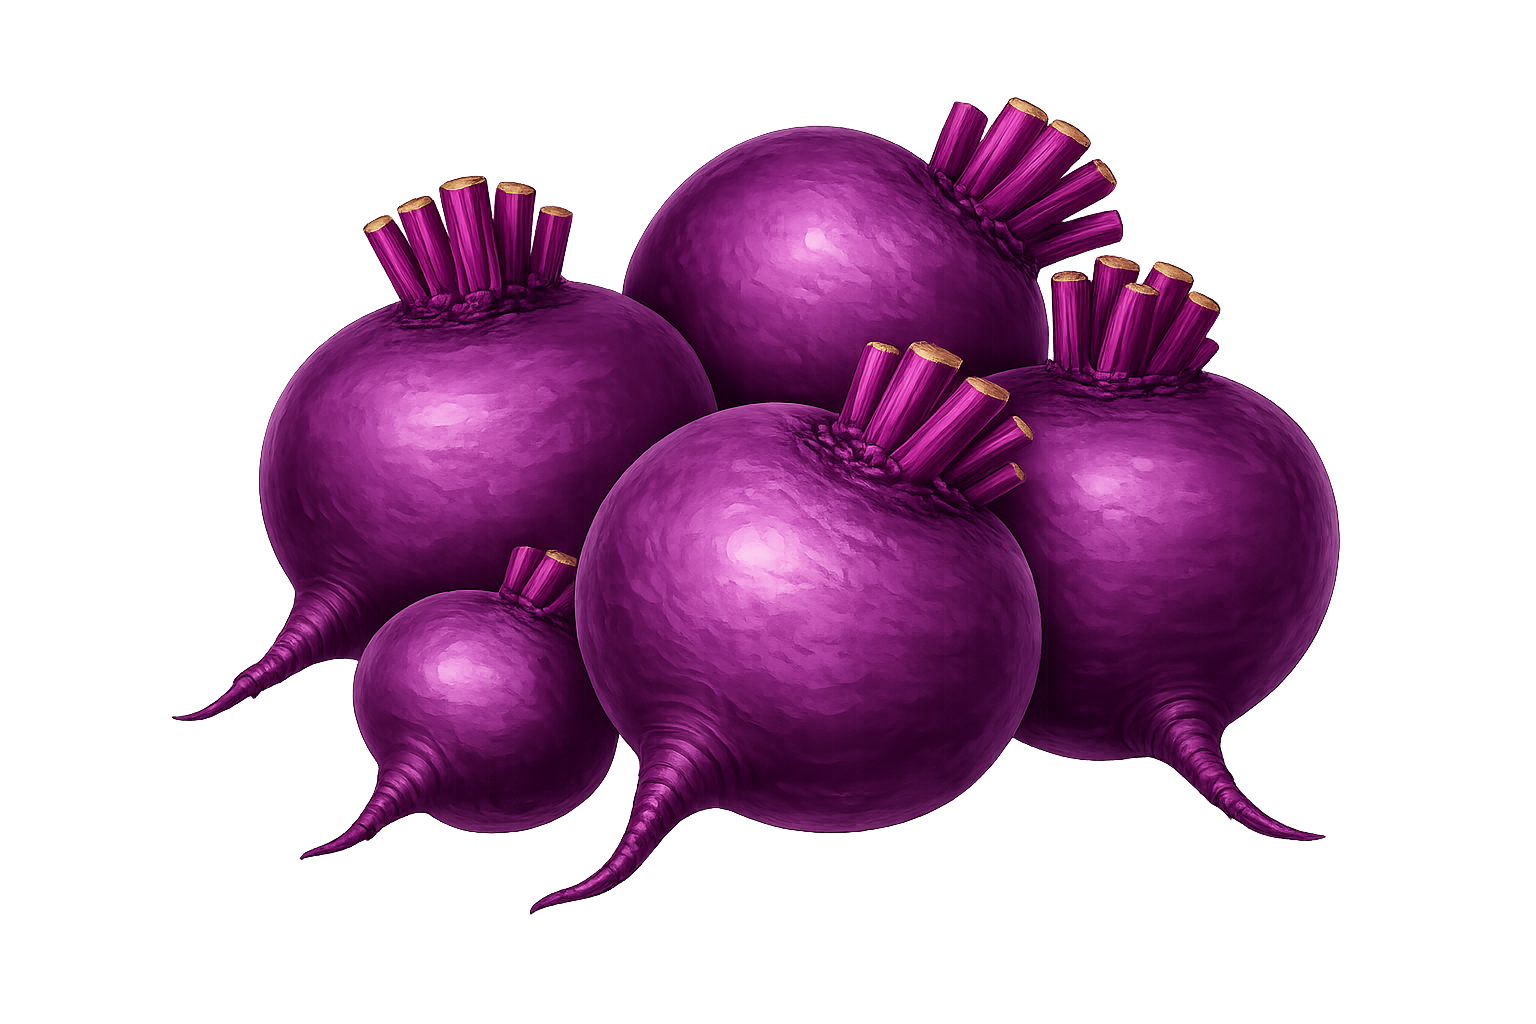
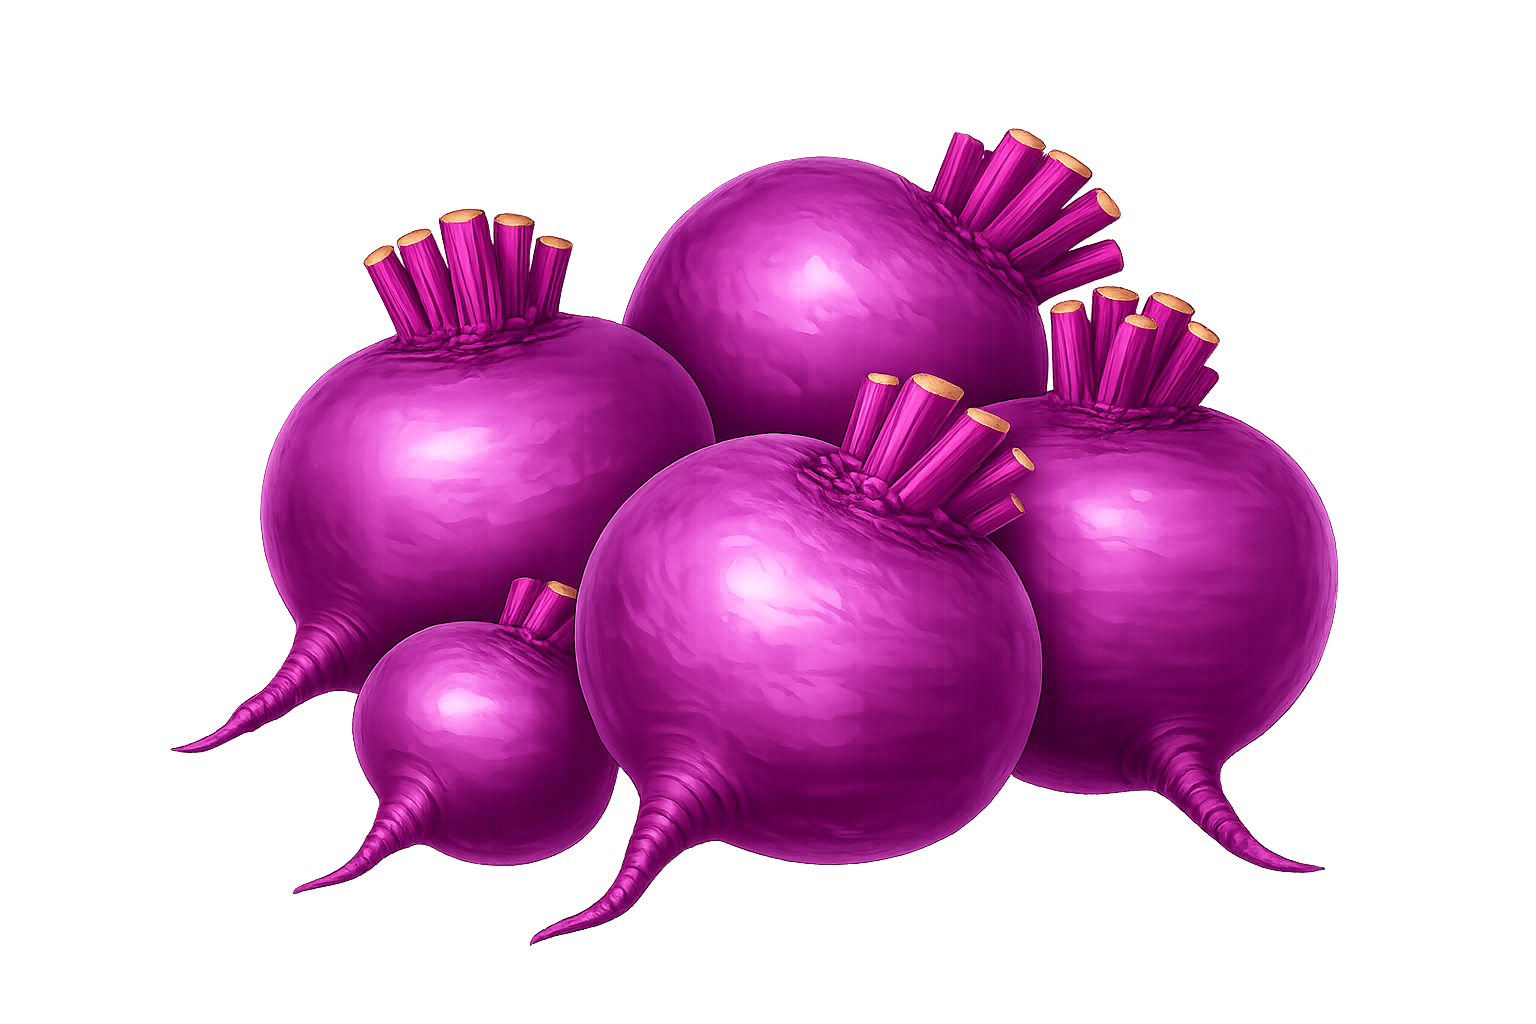
Se agrega la funcionalidad de cortar los ingredientes

diff --git a/Proyecto2_Crazy_Snack_Rush.py b/Proyecto2_Crazy_Snack_Rush.py
@@ -916,7 +916,7 @@ class ingredientes_restaurante_americano:
 
 #######################################################################################
 
-#Clase que controlará los eventos de cocinar, cortar 
+#Clase que guadar las posiciones de la cocina en los restaurates  
 class Cocina:
 
         def __init__(self, fila, columna):
@@ -925,6 +925,17 @@ class Cocina:
                 self.fila = fila
 
                 # Guarda la columna donde se encuentra la cocina
+                self.columna = columna
+#######################################################################################
+# Clase que guarda las posiciones de las tablas de picar en los restaurantes 
+class tabla_Picar:
+
+        def __init__(self, fila, columna):
+
+                # Se guarda la fila donde está la tabla de picar 
+                self.fila = fila
+
+                # Se guarda la columna donde está la tabla de picar
                 self.columna = columna
 #######################################################################################
 
@@ -975,6 +986,10 @@ class Pantalla_Restaurante_Americano:
                 # Detecta cuando el jugador presiona la tecla "s" para cocinar
                 self.ventana_restaurante.bind("s", self.usar_cocina_americano)
 
+                # Detecta cuando el jugador presiona la tecla "D" para picar ingredientes
+                self.ventana_restaurante.bind("d", self.usar_tabla_picar_americano)
+
+
 
 #######
                 # Matriz que permite el movimiento en el  restaurante americano 
@@ -1013,10 +1028,10 @@ class Pantalla_Restaurante_Americano:
                         [0,0,0,0,1,1,1,1,1,1,1,1,1,1,1,1,1,1,1,0],
 
                         # Fila 10
-                        [0,0,0,0,1,1,1,1,1,1,1,1,1,0,0,1,1,0,0,0],
+                        [0,0,0,0,1,1,1,1,1,1,1,1,1,0,0,1,1,1,0,0],
 
                         # Fila 11
-                        [0,1,1,1,1,1,1,1,1,1,1,1,0,0,0,1,1,0,0,0],
+                        [0,1,1,1,1,1,1,1,1,1,1,1,0,0,0,1,0,0,0,0],
 
                         # Fila 12
                         [0,1,1,1,1,1,1,1,1,1,1,1,1,1,0,0,0,0,0,0],
@@ -1071,7 +1086,7 @@ class Pantalla_Restaurante_Americano:
                 # Permite detectar cuando el jugador hace clic sobre la imagen
                 self.canvas.tag_bind(
 
-                        self.boton_cambiar_chef,  # Imagen que funcionará como botón
+                        self.boton_cambiar_chef,  # Nombre de la imagen que funcionará como botón
 
                         "<Button-1>",             # Detecta clic izquierdo del mouse
 
@@ -1103,6 +1118,19 @@ class Pantalla_Restaurante_Americano:
                                 # Cocina inferior derecha
                                 Cocina(9, 14)
 
+                        ]
+                
+#######
+                # Lista que almacena las posiciones donde el chef puede cortar ingredientes
+                        # Posicione válidas para cortar ingredientes
+                self.tablas_picar = [
+
+                        # Tabla de picar en la parte superior de la pantalla 
+                        tabla_Picar(2, 5),
+
+                        #Tabla de picar en la parte inferior de la pantalla 
+                        tabla_Picar(10, 16),
+                        tabla_Picar(10, 17),
                         ]
 
 #######
@@ -1379,8 +1407,137 @@ class Pantalla_Restaurante_Americano:
 
 ##########################
 
+        # Función que verifica si el chef está en una tabla de picar
+        def esta_en_tabla_picar(self):
+
+                # Se obtiene la fila actual del chef
+                fila = self.chef.chef_ejey // 50
+
+                # Se obtiene la columna actual del chef
+                columna = self.chef.chef_ejex // 50
+
+                # Muestra la posición actual del chef
+                print("Fila:", fila, "Columna:", columna)
+
+                # Recorre todas las posiciones de las tablas de picar
+                for tabla in self.tablas_picar:
+
+                        # Se verifica si la posición del chef coincide con una tabla de picar
+                        if fila == tabla.fila and columna == tabla.columna:
+
+                                return True
+
+                # Si no coincide con ninguna tabla
+                return False
+
+##########################
+
+        # Función que se ejecuta cuando el jugador presiona D
+        def usar_tabla_picar_americano(self, event):
+
+                # Verifica si el chef está en una tabla de picar
+                if self.esta_en_tabla_picar():
+
+                        # Llama a la función que pica el ingrediente
+                        self.picar_ingrediente()
+
+                else:
+
+                        # Si no está en una tabla, no puede picar
+                        print("No está en una tabla de picar")
+
+########################## 
+
+        # Función que permite picar el ingrediente que tiene el chef
+        def picar_ingrediente(self):
+
+                # Verifica si el chef tiene un ingrediente en la mano
+                if self.ingrediente_en_mano == None:
+
+                        print("No tienes ingrediente para picar")
+
+                        return 
+
+                
+                # Si el ingrediente ya está picado, no se vuelve a picar
+                if self.ingrediente_en_mano.estado_ingrediente == "picado":
+
+                                print("El ingrediente ya está picado")
+
+                                return
+# #####                        
+                # Se verifica si el ingrediente puede picarse
+                if self.ingrediente_en_mano.nombre_ingrediente not in [
+
+                                                                                "Lechuga",
+                                                                                "Tomate",
+                                                                                "Cebolla",
+                                                                                "Zanahoria",
+                                                                                "Remolacha",
+                                                                                "Calabaza",
+                                                                                "Papa",
+                                                                                "Queso",
+                                                                                "Pan"
+
+                                                                                ]:
+
+                        print("Este ingrediente no se puede picar")
+
+                        return
+
+                # Se cambia el estado del ingrediente a picado
+                self.ingrediente_en_mano.estado_ingrediente = "picado"
+
+#######
+                # Se Cambia la imagen según el ingrediente picado
+
+                if self.ingrediente_en_mano.nombre_ingrediente == "Lechuga":
+
+                        self.ingrediente_en_mano.imagen_ingrediente_cocinado("lechuga_picada.png")
+
+                elif self.ingrediente_en_mano.nombre_ingrediente == "Papa":
+
+                        self.ingrediente_en_mano.imagen_ingrediente_cocinado("papa_picada.png")
+
+                elif self.ingrediente_en_mano.nombre_ingrediente == "Zanahoria":
+
+                        self.ingrediente_en_mano.imagen_ingrediente_cocinado("zanahoria_picada.png")
+
+                elif self.ingrediente_en_mano.nombre_ingrediente == "Tomate":
+
+                        self.ingrediente_en_mano.imagen_ingrediente_cocinado("tomate_picado.png")
+
+                elif self.ingrediente_en_mano.nombre_ingrediente == "Queso":
+
+                        self.ingrediente_en_mano.imagen_ingrediente_cocinado("queso_picado.png")
+
+                elif self.ingrediente_en_mano.nombre_ingrediente == "Cebolla":
+
+                        self.ingrediente_en_mano.imagen_ingrediente_cocinado("cebolla_picada.png")
+
+                elif self.ingrediente_en_mano.nombre_ingrediente == "Remolacha":
+
+                        self.ingrediente_en_mano.imagen_ingrediente_cocinado("remolacha_picada.png")
+
+                elif self.ingrediente_en_mano.nombre_ingrediente == "Calabaza":
+
+                        self.ingrediente_en_mano.imagen_ingrediente_cocinado("calabaza_picada.png")
+
+                elif self.ingrediente_en_mano.nombre_ingrediente == "Pan":
+
+                        self.ingrediente_en_mano.imagen_ingrediente_cocinado("pan_picado.png")
+
+
+
+                # Muestra mensaje de confirmación
+                print(self.ingrediente_en_mano.nombre_ingrediente, "picado")
+
+                # Muestra el nuevo estado
+                print("Estado:", self.ingrediente_en_mano.estado_ingrediente)                       
+
+##########################
+
         # Función que permite cocinar el ingrediente (proteina) que tiene el chef
-       
         def cocinar_ingrediente(self):
 
                 # Verifica si el chef tiene un ingrediente seleccionado
@@ -1552,6 +1709,12 @@ class Pantalla_Restaurante_Americano:
 
                                 ingrediente.imagen_ingrediente_cocinado("carne.png")
 
+                        # Si vuelve a tomar zanahoria, se restaura la imagen original
+                        if ingrediente.nombre_ingrediente == "Zanahoria":
+
+                                ingrediente.imagen_ingrediente_cocinado("zanahoria.png")
+
+
                         # Coloca el ingrediente sobre el chef
                         ingrediente.tomar_ingrediente(self.chef)
 
@@ -1706,9 +1869,6 @@ class Pantalla_Restaurante_Europeo:
 
                         ]
 
-                
-                
-
                 #Se dibuja la cuadrícula sobre la imagen de la cocina europea 
                 #self.dibujar_cuadricula()
 
@@ -1783,7 +1943,19 @@ class Pantalla_Restaurante_Europeo:
 
                                 # Cocina superior derecha
                                 Cocina(2, 13)
-]
+                                ]
+                
+#######
+                # Lista que almacena las posiciones donde el chef puede picar en el restaurante europeo
+                self.tablas_picar = [
+
+                        # Tabla de picar izquierda
+                        tabla_Picar(6, 5),
+                        tabla_Picar(6, 6),
+
+                        # Tabla de picar derecha
+                        tabla_Picar(9, 15)
+                ]
 #######
                 # Se crea el ingrediente papa del restaurante europeo
                 self.papa = ingredientes_restaurante_americano(
@@ -1869,6 +2041,9 @@ class Pantalla_Restaurante_Europeo:
 
                 # Detecta cuando el jugador presiona la tecla "S" para cocinar proteínas
                 self.ventana_restaurante.bind("s", self.usar_cocina_europeo)
+
+                # Detecta cuando el jugador presiona la tecla "D" para picar ingredientes
+                self.ventana_restaurante.bind("d", self.usar_tabla_picar_europeo)
 
 
 #######
@@ -2087,6 +2262,116 @@ class Pantalla_Restaurante_Europeo:
 
                                 #Se actualiza el estado del ingrediente del chef a none tras cocinarlo no siendo una proteina 
                                 self.ingrediente_en_mano = None
+
+##########################################
+        # Función que verifica si el chef está en una tabla de picar
+        def esta_en_tabla_picar(self):
+
+                # Se obtiene la fila actual del chef
+                fila = self.chef.chef_ejey // 50
+
+                # Se obtiene la columna actual del chef
+                columna = self.chef.chef_ejex // 50
+
+                # Muestra la posición actual del chef
+                print("Fila:", fila, "Columna:", columna)
+
+                # Recorre todas las posiciones de las tablas de picar
+                for tabla in self.tablas_picar:
+
+                        # Se verifica si la posición del chef coincide con una tabla de picar
+                        if fila == tabla.fila and columna == tabla.columna:
+
+                                return True
+
+                # Si no coincide con ninguna ubicación de tabla de picar 
+                return False
+
+##########################################
+
+        # Función que se ejecuta la funcionalidad de picar cuando el jugador presiona D
+        def usar_tabla_picar_europeo(self, event):
+
+                # Verifica si el chef está en una tabla de picar
+                if self.esta_en_tabla_picar():
+
+                        # Llama a la función que pica el ingrediente
+                        self.picar_ingrediente_europeo()
+
+                else:
+
+                        # Si no está en una tabla, no puede picar
+                        print("No está en una tabla de picar")
+
+##########################################
+
+        # Función que permite picar el ingrediente que tiene el chef en el restaurante europeo
+        def picar_ingrediente_europeo(self):
+
+                # Verifica si el chef tiene un ingrediente en la mano
+                if self.ingrediente_en_mano == None:
+
+                        print("No tienes ingrediente para picar")
+
+                        return
+
+                # Si el ingrediente ya está picado, no se vuelve a picar
+                if self.ingrediente_en_mano.estado_ingrediente == "picado":
+
+                        print("El ingrediente ya está picado")
+
+                        return
+
+                # Se verifica si el ingrediente puede picarse
+                if self.ingrediente_en_mano.nombre_ingrediente not in [
+
+                                                                                "Papa",
+                                                                                "Pan",
+                                                                                "Queso_cubo",
+                                                                                "lechuga",
+                                                                                "Tomate",
+                                                                                "Albahaca"
+
+                                                                        ]:
+
+                        print("Este ingrediente no se puede picar")
+
+                        return
+
+                # Se cambia el estado del ingrediente a picado
+                self.ingrediente_en_mano.estado_ingrediente = "picado"
+
+                # Se cambia la imagen según el ingrediente picado
+                if self.ingrediente_en_mano.nombre_ingrediente == "Papa":
+
+                        self.ingrediente_en_mano.imagen_ingrediente_cocinado("papa_picada.png")
+
+                elif self.ingrediente_en_mano.nombre_ingrediente == "Pan":
+
+                        self.ingrediente_en_mano.imagen_ingrediente_cocinado("pan_picado.png")
+
+                elif self.ingrediente_en_mano.nombre_ingrediente == "Queso_cubo":
+
+                        self.ingrediente_en_mano.imagen_ingrediente_cocinado("queso_picado.png")
+
+                elif self.ingrediente_en_mano.nombre_ingrediente == "lechuga":
+
+                        self.ingrediente_en_mano.imagen_ingrediente_cocinado("lechuga_picada.png")
+
+                elif self.ingrediente_en_mano.nombre_ingrediente == "Tomate":
+
+                        self.ingrediente_en_mano.imagen_ingrediente_cocinado("tomate_picado.png")
+
+                elif self.ingrediente_en_mano.nombre_ingrediente == "Albahaca":
+
+                        self.ingrediente_en_mano.imagen_ingrediente_cocinado("albahaca_picada.png")
+
+                # Muestra mensaje de confirmación
+                print(self.ingrediente_en_mano.nombre_ingrediente, "picado")
+
+                # Muestra el nuevo estado
+                print("Estado:", self.ingrediente_en_mano.estado_ingrediente)
+
 
 ##########################################
 